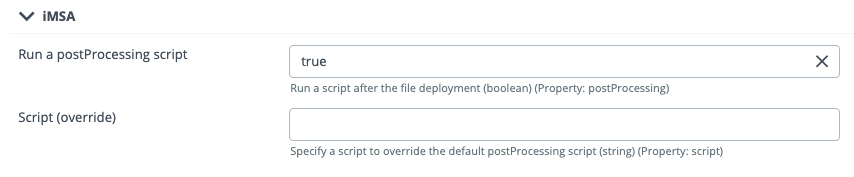
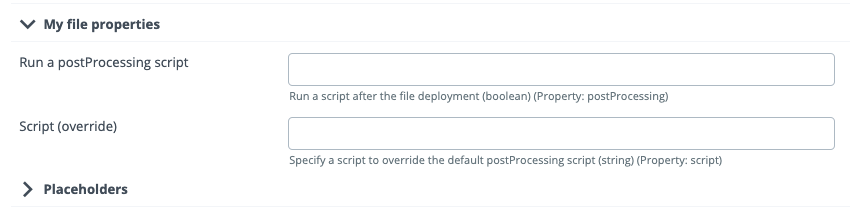
English version

diff --git a/README.md b/README.md
@@ -1,21 +1,33 @@
 # xld-demo-file-extension
 
-Exemple de définition d'un nouveau type d'artifact qui hérite de File de façon à pouvoir lancer l'exécution d'un script après le déploiement d'un fichier.
+This is a sample definition of a new Digital.ai Deploy artifact, inheriting from the default File in order to run a command after the deployment of a file.
 
-## Limite
+## Limitation
 
-Cet exemple a été ecrit dans un objectif de démonstration et n'a pas été validé pour une mise en production.
+This a sample only, please do not use in production (not designed to manage all use cases)
 
-## Installation
+## Installation steps
 
-- Copier le contenu du fichier synthetic.xml dans celui présent dans le répertoire <deploy_dir>/ext (si absent, copier le fichier)
-- Copier le contenu du fichier xl-rules.xml dans celui présent dans le répertoire <deploy_dir>/ext (si absent, copier le fichier)
-- Copier le répertoire imsa dans <deploy_dir>/ext
-- Redémarrer le serveur Deploy.
+- Copy the content of the synthetic.xml file into the existing one in <deploy_dir>/ext
+- Copy the content of the xl-rules.xml file into the existing one in <deploy_dir>/ext (if not present create a new one)
+- Copy the newFile directory into <deploy_dir>/ext
+- Restart the Deploy server
 
-Un nouveau type d'artifact est disponible : imsa > File
+A new File type is available in mycompany > File
 
-![Nouveau type](images/file.png)
+![New type](images/file.png)
 
-![Propriétés](images/file2.png)
+New properties:
+
+![Properties](images/file2.png)
+
+---
+Sample:
+
+File with properties:
+
+![Properties](images/properties.png)
+  
+
+![Deployment](images/deployment.png)
 
